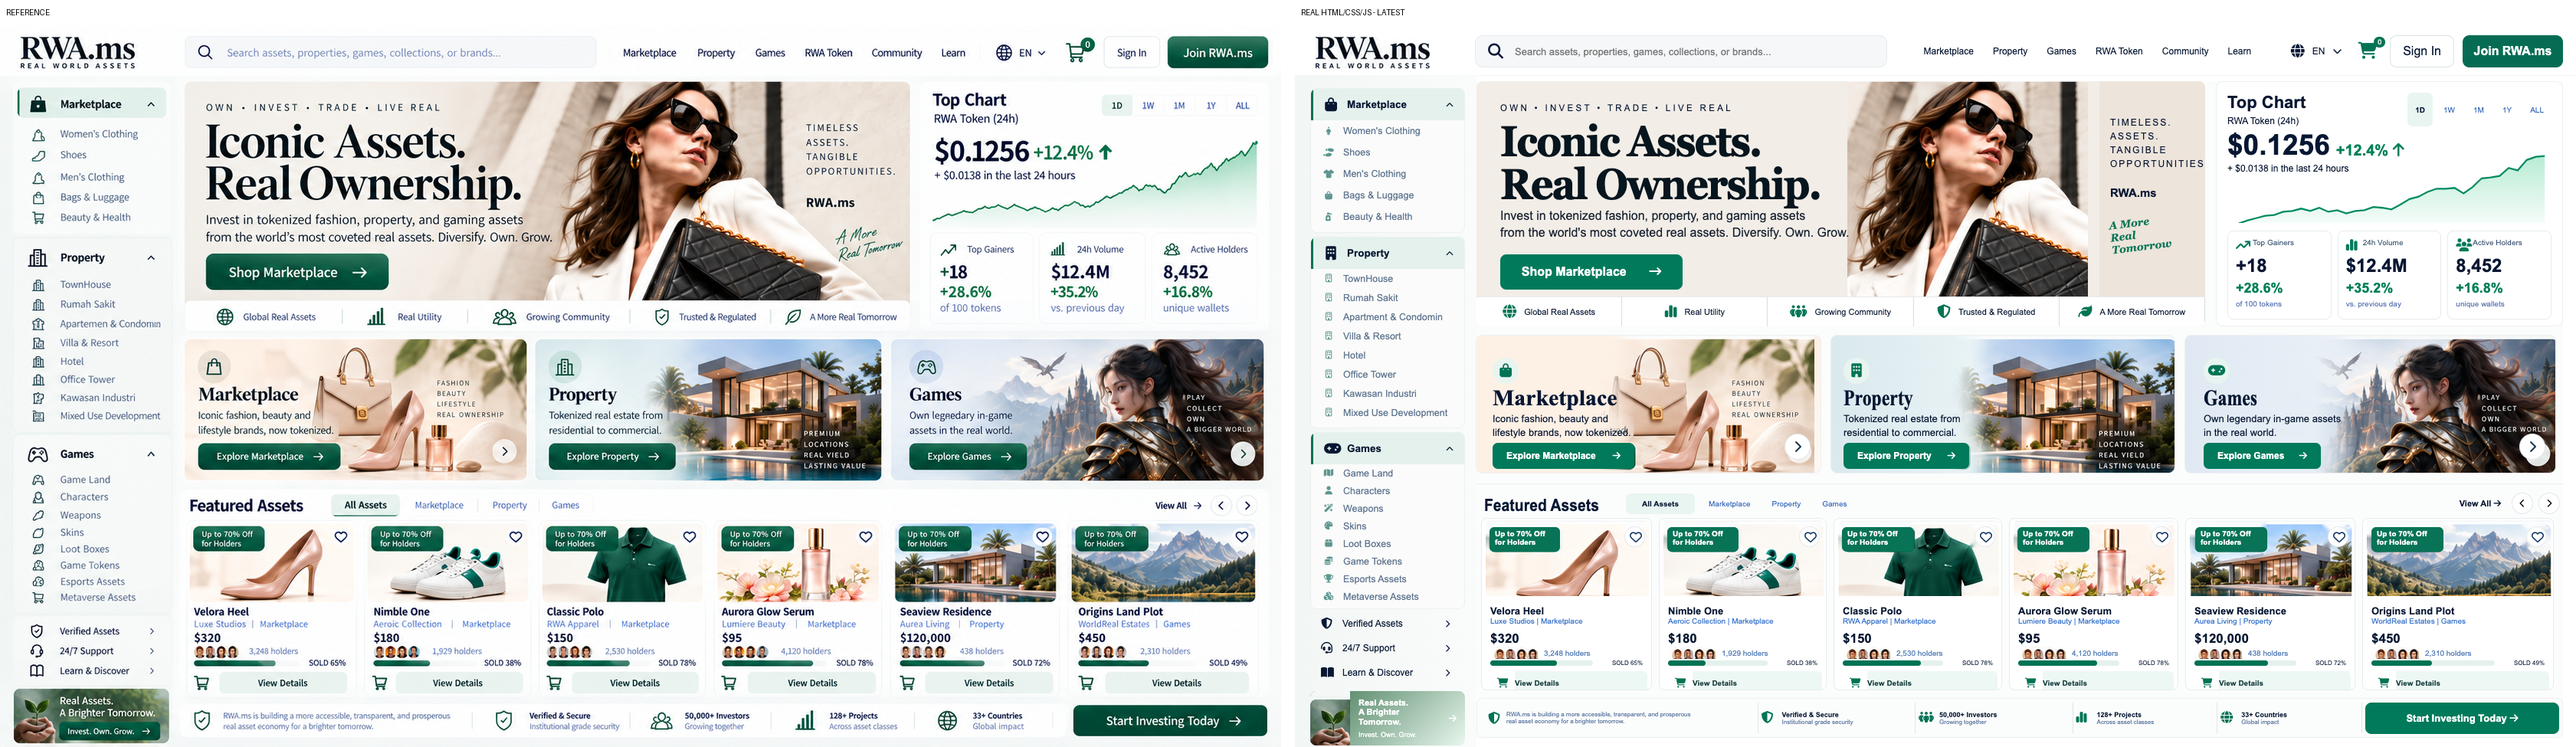
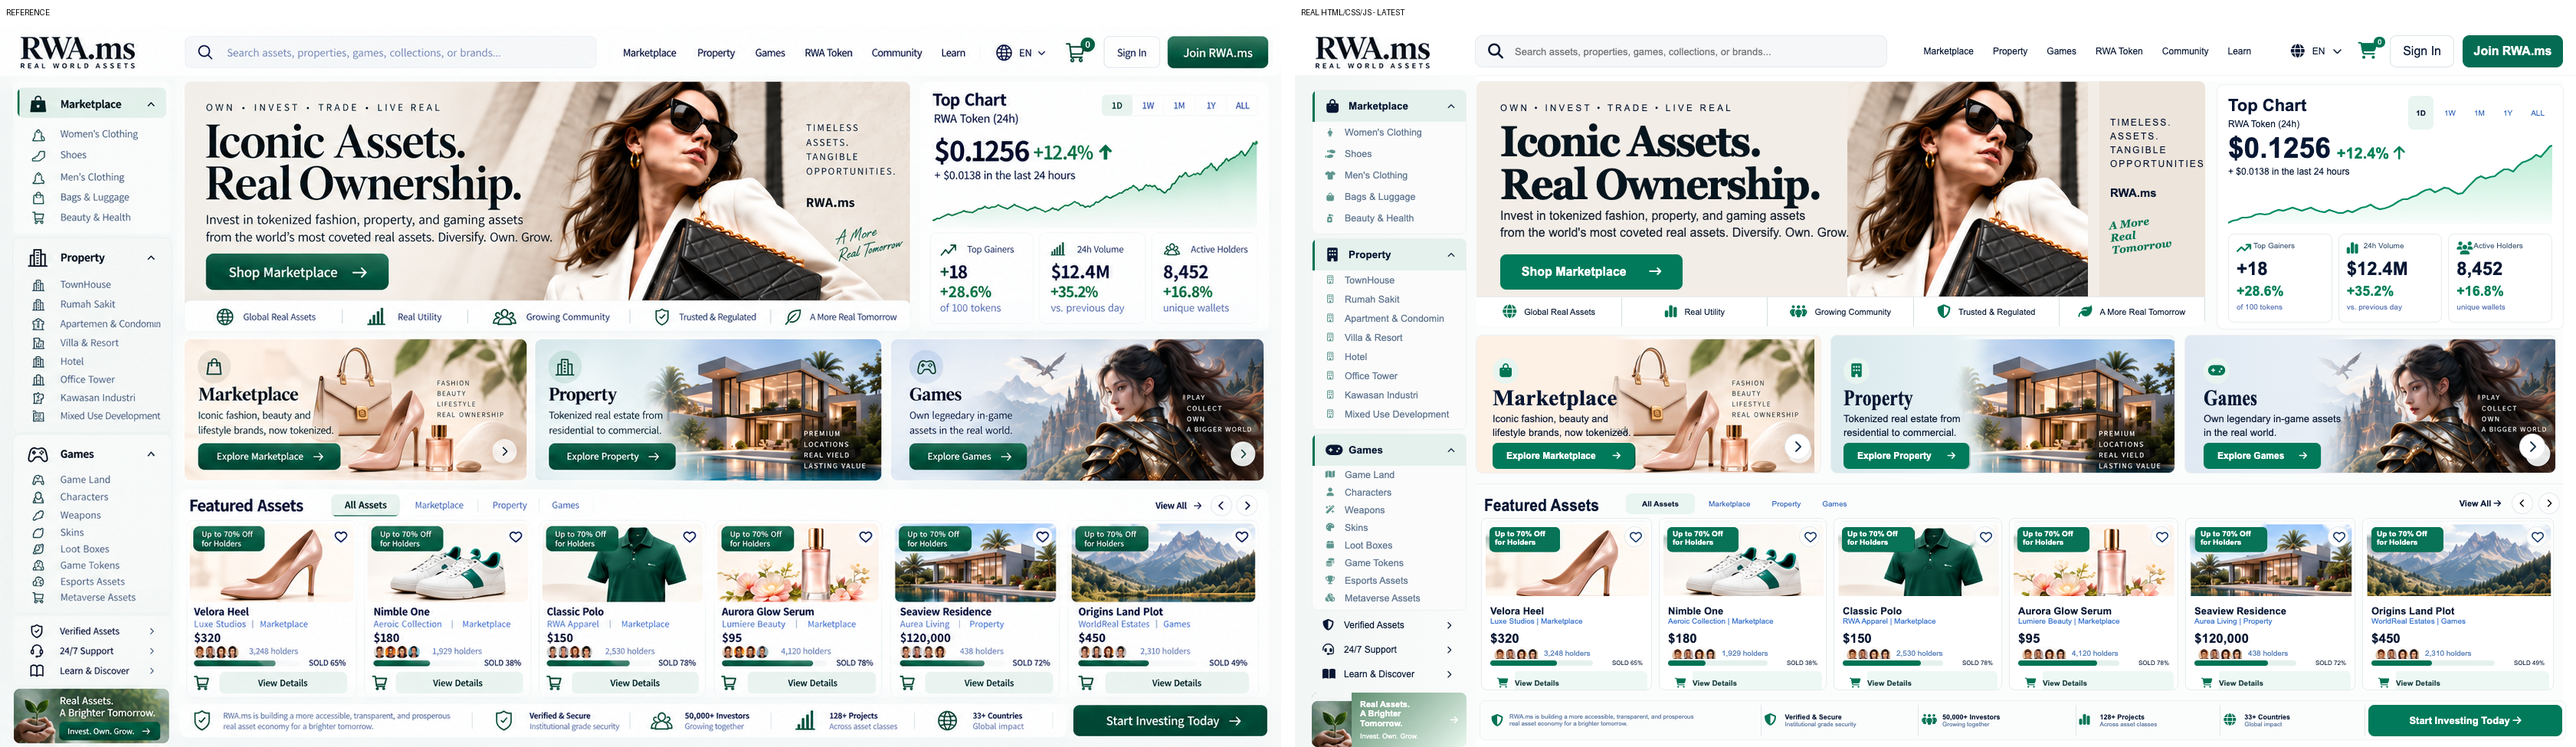
Trace chart as real SVG and refine desktop match

diff --git a/desktop.html b/desktop.html
@@ -4,7 +4,7 @@
 <header class="topbar" data-ai-zone="desktop.header"><a class="brand"><img src="assets/logo-ref-exact.png"/></a><label class="search"><i class="fa-solid fa-magnifying-glass"></i><input placeholder="Search assets, properties, games, collections, or brands..."/></label><nav class="mainnav"><a data-action="nav-marketplace" href="#">Marketplace</a><a data-action="nav-property" href="#">Property</a><a data-action="nav-games" href="#">Games</a><a data-action="nav-rwa-token" href="#">RWA Token</a><a data-action="nav-community" href="#">Community</a><a data-action="nav-learn" href="#">Learn</a></nav><button class="lang" data-action="language" type="button"><i class="fa-solid fa-globe"></i> EN <i class="fa-solid fa-chevron-down"></i></button><button class="cart" data-action="cart" type="button"><i class="fa-solid fa-cart-shopping"></i><span>0</span></button><button class="signin" data-action="sign-in" type="button">Sign In</button><button class="join" data-action="join" type="button">Join RWA.ms</button></header>
 <div class="shell"><aside class="sidebar" data-ai-zone="desktop.sidebar"><section class="side-group"><button aria-expanded="true" class="side-title" data-action="toggle-sidebar-group" type="button"><span><i class="fa-solid fa-bag-shopping"></i>Marketplace</span><i class="fa-solid fa-chevron-up"></i></button><a data-action="filter-women's-clothing" href="#"><i class="fa-solid fa-person-dress"></i>Women's Clothing</a><a data-action="filter-shoes" href="#"><i class="fa-solid fa-shoe-prints"></i>Shoes</a><a data-action="filter-men's-clothing" href="#"><i class="fa-solid fa-shirt"></i>Men's Clothing</a><a data-action="filter-bags-and-luggage" href="#"><i class="fa-solid fa-bag-shopping"></i>Bags &amp; Luggage</a><a data-action="filter-beauty-and-health" href="#"><i class="fa-solid fa-pump-soap"></i>Beauty &amp; Health</a></section><section class="side-group"><button aria-expanded="true" class="side-title" data-action="toggle-sidebar-group" type="button"><span><i class="fa-solid fa-building"></i>Property</span><i class="fa-solid fa-chevron-up"></i></button><a data-action="filter-townhouse" href="#"><i class="fa-regular fa-building"></i>TownHouse</a><a data-action="filter-rumah-sakit" href="#"><i class="fa-regular fa-building"></i>Rumah Sakit</a><a data-action="filter-apartment-and-condomin" href="#"><i class="fa-regular fa-building"></i>Apartment &amp; Condomin</a><a data-action="filter-villa-and-resort" href="#"><i class="fa-regular fa-building"></i>Villa &amp; Resort</a><a data-action="filter-hotel" href="#"><i class="fa-regular fa-building"></i>Hotel</a><a data-action="filter-office-tower" href="#"><i class="fa-regular fa-building"></i>Office Tower</a><a data-action="filter-kawasan-industri" href="#"><i class="fa-regular fa-building"></i>Kawasan Industri</a><a data-action="filter-mixed-use-development" href="#"><i class="fa-regular fa-building"></i>Mixed Use Development</a></section><section class="side-group"><button aria-expanded="true" class="side-title" data-action="toggle-sidebar-group" type="button"><span><i class="fa-solid fa-gamepad"></i>Games</span><i class="fa-solid fa-chevron-up"></i></button><a data-action="filter-game-land" href="#"><i class="fa-solid fa-map"></i>Game Land</a><a data-action="filter-characters" href="#"><i class="fa-solid fa-user"></i>Characters</a><a data-action="filter-weapons" href="#"><i class="fa-solid fa-wand-magic-sparkles"></i>Weapons</a><a data-action="filter-skins" href="#"><i class="fa-solid fa-palette"></i>Skins</a><a data-action="filter-loot-boxes" href="#"><i class="fa-solid fa-box"></i>Loot Boxes</a><a data-action="filter-game-tokens" href="#"><i class="fa-solid fa-coins"></i>Game Tokens</a><a data-action="filter-esports-assets" href="#"><i class="fa-solid fa-trophy"></i>Esports Assets</a><a data-action="filter-metaverse-assets" href="#"><i class="fa-solid fa-cubes"></i>Metaverse Assets</a></section><a class="side-simple" data-action="open-verified-assets" href="#"><i class="fa-solid fa-shield-halved"></i>Verified Assets<i class="fa-solid fa-chevron-right"></i></a><a class="side-simple" data-action="open-24-7-support" href="#"><i class="fa-solid fa-headset"></i>24/7 Support<i class="fa-solid fa-chevron-right"></i></a><a class="side-simple" data-action="open-learn-and-discover" href="#"><i class="fa-solid fa-book-open"></i>Learn &amp; Discover<i class="fa-solid fa-chevron-right"></i></a><div class="side-promo"><img alt="" class="promo-art" src="assets/sidebar_promo_art2.png"/><i class="fa-solid fa-leaf"></i><div><b>Real Assets.<br/>A Brighter Tomorrow.</b><small>Invest. Own. Grow.</small></div><i class="fa-solid fa-arrow-right"></i></div></aside>
 <main class="content"><div class="hero-row"><section class="hero" data-ai-zone="desktop.hero"><div class="hero-copy"><div class="eyebrow">OWN • INVEST • TRADE • LIVE REAL</div><h1>Iconic Assets.<br/>Real Ownership.</h1><p>Invest in tokenized fashion, property, and gaming assets<br/>from the world's most coveted real assets. Diversify. Own. Grow.</p><button data-action="shop-marketplace" type="button">Shop Marketplace <i class="fa-solid fa-arrow-right-long"></i></button></div><div class="hero-visual"><img alt="Fashion hero photo" src="assets/hero_photo_exact.png"/><div class="hero-mask"></div></div><div class="hero-right"><span>TIMELESS.<br/>ASSETS.<br/>TANGIBLE<br/>OPPORTUNITIES.</span><b>RWA.ms</b><em>A More<br/>Real Tomorrow</em></div><div class="hero-benefits"><span><i class="fa-solid fa-globe"></i>Global Real Assets</span><span><i class="fa-solid fa-chart-simple"></i>Real Utility</span><span><i class="fa-solid fa-people-group"></i>Growing Community</span><span><i class="fa-solid fa-shield-halved"></i>Trusted &amp; Regulated</span><span><i class="fa-solid fa-leaf"></i>A More Real Tomorrow</span></div></section>
-<section class="topchart" data-ai-zone="desktop.chart"><div class="chart-head"><div><h2>Top Chart</h2><p>RWA Token (24h)</p></div><div class="ranges"><button class="active" data-action="chart-range" data-value="1D" type="button">1D</button><button data-action="chart-range" data-value="1W" type="button">1W</button><button data-action="chart-range" data-value="1M" type="button">1M</button><button data-action="chart-range" data-value="1Y" type="button">1Y</button><button data-action="chart-range" data-value="ALL" type="button">ALL</button></div></div><div class="price-row"><strong>$0.1256</strong><span>+12.4% <i class="fa-solid fa-arrow-up"></i></span></div><p class="delta">+ $0.0138 in the last 24 hours</p><svg class="chart" preserveaspectratio="none" viewbox="0 0 420 100"><defs><lineargradient id="area" x1="0" x2="0" y1="0" y2="1"><stop offset="0" stop-color="#62d49f" stop-opacity=".45"></stop><stop offset="1" stop-color="#62d49f" stop-opacity=".05"></stop></lineargradient></defs><path d="M0 101L12 97L24 94L36 91L48 90L60 86L72 85L84 82L96 85L108 81L120 86L132 84L144 88L156 85L168 84L180 80L192 81L204 83L216 77L228 70L240 67L252 61L264 57L276 57L288 56L300 63L312 55L324 44L336 43L348 41L360 31L372 34L384 21L396 17L408 16L408 104L0 104Z" fill="url(#area)"></path><polyline fill="none" points="0,101 12,97 24,94 36,91 48,90 60,86 72,85 84,82 96,85 108,81 120,86 132,84 144,88 156,85 168,84 180,80 192,81 204,83 216,77 228,70 240,67 252,61 264,57 276,57 288,56 300,63 312,55 324,44 336,43 348,41 360,31 372,34 384,21 396,17 408,16" stroke="#008b62" stroke-width="2.2"></polyline></svg><div class="stat-grid"><div><i class="fa-solid fa-arrow-trend-up"></i><span>Top Gainers</span><strong>+18</strong><b>+28.6%</b><small>of 100 tokens</small></div><div><i class="fa-solid fa-chart-simple"></i><span>24h Volume</span><strong>$12.4M</strong><b>+35.2%</b><small>vs. previous day</small></div><div><i class="fa-solid fa-users"></i><span>Active Holders</span><strong>8,452</strong><b>+16.8%</b><small>unique wallets</small></div></div></section></div>
+<section class="topchart" data-ai-zone="desktop.chart"><div class="chart-head"><div><h2>Top Chart</h2><p>RWA Token (24h)</p></div><div class="ranges"><button class="active" data-action="chart-range" data-value="1D" type="button">1D</button><button data-action="chart-range" data-value="1W" type="button">1W</button><button data-action="chart-range" data-value="1M" type="button">1M</button><button data-action="chart-range" data-value="1Y" type="button">1Y</button><button data-action="chart-range" data-value="ALL" type="button">ALL</button></div></div><div class="price-row"><strong>$0.1256</strong><span>+12.4% <i class="fa-solid fa-arrow-up"></i></span></div><p class="delta">+ $0.0138 in the last 24 hours</p><svg class="chart" preserveaspectratio="none" viewbox="0 0 423 104"><defs><lineargradient id="area" x1="0" x2="0" y1="0" y2="1"><stop offset="0" stop-color="#62d49f" stop-opacity=".45"></stop><stop offset="1" stop-color="#62d49f" stop-opacity=".05"></stop></lineargradient></defs><path d="M0 103 L6 100 L12 99 L18 96 L24 96 L30 95 L36 92 L42 91 L48 92 L54 91 L60 88 L66 86 L72 87 L78 85 L84 83 L90 85 L96 87 L102 85 L108 83 L114 86 L120 88 L126 89 L132 86 L138 88 L144 90 L150 90 L156 87 L162 89 L168 86 L174 83 L180 82 L186 79 L192 83 L198 85 L204 84 L210 82 L216 79 L222 75 L228 72 L234 72 L240 69 L246 67 L252 63 L258 60 L264 59 L270 63 L276 60 L282 57 L288 58 L294 62 L300 65 L306 64 L312 57 L318 51 L324 45 L330 42 L336 45 L342 43 L348 42 L354 37 L360 33 L366 33 L372 36 L378 29 L384 24 L390 22 L396 19 L402 14 L408 17 L414 10 L420 3 L423 2 L423 104 L0 104 Z" fill="url(#area)"></path><polyline fill="none" points="0,103 6,100 12,99 18,96 24,96 30,95 36,92 42,91 48,92 54,91 60,88 66,86 72,87 78,85 84,83 90,85 96,87 102,85 108,83 114,86 120,88 126,89 132,86 138,88 144,90 150,90 156,87 162,89 168,86 174,83 180,82 186,79 192,83 198,85 204,84 210,82 216,79 222,75 228,72 234,72 240,69 246,67 252,63 258,60 264,59 270,63 276,60 282,57 288,58 294,62 300,65 306,64 312,57 318,51 324,45 330,42 336,45 342,43 348,42 354,37 360,33 366,33 372,36 378,29 384,24 390,22 396,19 402,14 408,17 414,10 420,3 423,2" stroke="#008b62" stroke-width="2.2"></polyline></svg><div class="stat-grid"><div><i class="fa-solid fa-arrow-trend-up"></i><span>Top Gainers</span><strong>+18</strong><b>+28.6%</b><small>of 100 tokens</small></div><div><i class="fa-solid fa-chart-simple"></i><span>24h Volume</span><strong>$12.4M</strong><b>+35.2%</b><small>vs. previous day</small></div><div><i class="fa-solid fa-users"></i><span>Active Holders</span><strong>8,452</strong><b>+16.8%</b><small>unique wallets</small></div></div></section></div>
 <section class="verticals" data-ai-zone="desktop.verticals"><article class="vertical"><div class="v-copy"><i class="fa-solid fa-bag-shopping"></i><h3>Marketplace</h3><p>Iconic fashion, beauty and lifestyle brands, now tokenized.</p><button data-action="explore-marketplace" type="button">Explore Marketplace <i class="fa-solid fa-arrow-right"></i></button></div><img src="assets/market_photo_wide.png"/><button aria-label="Next marketplace" class="vertical-arrow" data-action="marketplace-next" type="button"><i class="fa-solid fa-chevron-right"></i></button></article><article class="vertical"><div class="v-copy"><i class="fa-solid fa-building"></i><h3>Property</h3><p>Tokenized real estate from residential to commercial.</p><button data-action="explore-property" type="button">Explore Property <i class="fa-solid fa-arrow-right"></i></button></div><img alt="Category artwork" src="assets/property_photo_wide.png"/></article><article class="vertical"><div class="v-copy"><i class="fa-solid fa-gamepad"></i><h3>Games</h3><p>Own legendary in-game assets in the real world.</p><button data-action="explore-games" type="button">Explore Games <i class="fa-solid fa-arrow-right"></i></button></div><img src="assets/games_photo_wide.png"/><button aria-label="Next games" class="vertical-arrow" data-action="games-next" type="button"><i class="fa-solid fa-chevron-right"></i></button></article></section>
 <section class="featured" data-ai-zone="desktop.featured"><div class="featured-head"><h2>Featured Assets</h2><div class="tabs"><button class="active" data-action="featured-filter" data-value="all-assets" type="button">All Assets</button><button data-action="featured-filter" data-value="marketplace" type="button">Marketplace</button><button data-action="featured-filter" data-value="property" type="button">Property</button><button data-action="featured-filter" data-value="games" type="button">Games</button></div><div class="viewall"><button class="view-all-btn" data-action="view-all-assets" type="button">View All <i class="fa-solid fa-arrow-right"></i></button><button aria-label="Previous assets" data-action="featured-prev" type="button"><i class="fa-solid fa-chevron-left"></i></button><button aria-label="Next assets" data-action="featured-next" type="button"><i class="fa-solid fa-chevron-right"></i></button></div></div><div class="asset-grid"><article class="asset-card"><div class="discount" data-ui="holder-discount">Up to 70% Off<br/>for Holders</div><button aria-label="Save asset" class="heart" data-action="favorite" type="button"><i class="fa-regular fa-heart"></i></button><img alt="" src="assets/media1_clean.png"/><h4>Velora Heel</h4><p>Luxe Studios <span>| Marketplace</span></p><strong>$320</strong><div class="holders"><img alt="Holders" class="avatar-strip" src="assets/avatars-806.png"/><small>3,248 holders</small></div><div class="sold"><i style="--p:65%"></i><span>SOLD 65%</span></div><button class="detail" data-action="view-details" type="button"><i class="fa-solid fa-cart-shopping"></i>View Details</button></article><article class="asset-card"><div class="discount" data-ui="holder-discount">Up to 70% Off<br/>for Holders</div><button aria-label="Save asset" class="heart" data-action="favorite" type="button"><i class="fa-regular fa-heart"></i></button><img alt="" src="assets/media2_clean.png"/><h4>Nimble One</h4><p>Aeroic Collection <span>| Marketplace</span></p><strong>$180</strong><div class="holders"><img alt="Holders" class="avatar-strip" src="assets/avatars-806.png"/><small>1,929 holders</small></div><div class="sold"><i style="--p:38%"></i><span>SOLD 38%</span></div><button class="detail" data-action="view-details" type="button"><i class="fa-solid fa-cart-shopping"></i>View Details</button></article><article class="asset-card"><div class="discount" data-ui="holder-discount">Up to 70% Off<br/>for Holders</div><button aria-label="Save asset" class="heart" data-action="favorite" type="button"><i class="fa-regular fa-heart"></i></button><img alt="" src="assets/media3_clean.png"/><h4>Classic Polo</h4><p>RWA Apparel <span>| Marketplace</span></p><strong>$150</strong><div class="holders"><img alt="Holders" class="avatar-strip" src="assets/avatars-806.png"/><small>2,530 holders</small></div><div class="sold"><i style="--p:78%"></i><span>SOLD 78%</span></div><button class="detail" data-action="view-details" type="button"><i class="fa-solid fa-cart-shopping"></i>View Details</button></article><article class="asset-card"><div class="discount" data-ui="holder-discount">Up to 70% Off<br/>for Holders</div><button aria-label="Save asset" class="heart" data-action="favorite" type="button"><i class="fa-regular fa-heart"></i></button><img alt="" src="assets/media4_clean.png"/><h4>Aurora Glow Serum</h4><p>Lumiere Beauty <span>| Marketplace</span></p><strong>$95</strong><div class="holders"><img alt="Holders" class="avatar-strip" src="assets/avatars-806.png"/><small>4,120 holders</small></div><div class="sold"><i style="--p:78%"></i><span>SOLD 78%</span></div><button class="detail" data-action="view-details" type="button"><i class="fa-solid fa-cart-shopping"></i>View Details</button></article><article class="asset-card"><div class="discount" data-ui="holder-discount">Up to 70% Off<br/>for Holders</div><button aria-label="Save asset" class="heart" data-action="favorite" type="button"><i class="fa-regular fa-heart"></i></button><img alt="" src="assets/media5_clean.png"/><h4>Seaview Residence</h4><p>Aurea Living <span>| Property</span></p><strong>$120,000</strong><div class="holders"><img alt="Holders" class="avatar-strip" src="assets/avatars-806.png"/><small>438 holders</small></div><div class="sold"><i style="--p:72%"></i><span>SOLD 72%</span></div><button class="detail" data-action="view-details" type="button"><i class="fa-solid fa-cart-shopping"></i>View Details</button></article><article class="asset-card"><div class="discount" data-ui="holder-discount">Up to 70% Off<br/>for Holders</div><button aria-label="Save asset" class="heart" data-action="favorite" type="button"><i class="fa-regular fa-heart"></i></button><img alt="" src="assets/media6_clean.png"/><h4>Origins Land Plot</h4><p>WorldReal Estates <span>| Games</span></p><strong>$450</strong><div class="holders"><img alt="Holders" class="avatar-strip" src="assets/avatars-806.png"/><small>2,310 holders</small></div><div class="sold"><i style="--p:49%"></i><span>SOLD 49%</span></div><button class="detail" data-action="view-details" type="button"><i class="fa-solid fa-cart-shopping"></i>View Details</button></article></div></section>
 <footer class="trustbar" data-ai-zone="desktop.footer"><div class="trust-note"><i class="fa-solid fa-shield-halved"></i><span>RWA.ms is building a more accessible, transparent, and prosperous<br/>real asset economy for a brighter tomorrow.</span></div><div><i class="fa-solid fa-shield-halved"></i><b>Verified &amp; Secure</b><small>Institutional grade security</small></div><div><i class="fa-solid fa-people-group"></i><b>50,000+ Investors</b><small>Growing together</small></div><div><i class="fa-solid fa-chart-simple"></i><b>128+ Projects</b><small>Across asset classes</small></div><div><i class="fa-solid fa-globe"></i><b>33+ Countries</b><small>Global impact</small></div><button data-action="start-investing" type="button">Start Investing Today <i class="fa-solid fa-arrow-right"></i></button></footer></main></div></div>

diff --git a/desktop-clean.css b/desktop-clean.css
@@ -106,3 +106,9 @@
 .asset-card:nth-child(5) .discount{left:12px!important}
 .asset-card:nth-child(6) .discount{left:11px!important}
 .heart{top:10px!important;right:8px!important}
+/* CHART PATH REGISTERED FROM REFERENCE AS SVG CODE */
+.chart{left:14px!important;top:77px!important;width:423px!important;height:104px!important}
+/* SCREENING PASS — zone registration from browser/reference sweep */
+.sidebar{transform:translate(4px,4px)!important}
+.topchart{transform:translate(1px,4px)!important}
+.trustbar{transform:translate(4px,3px)!important}
